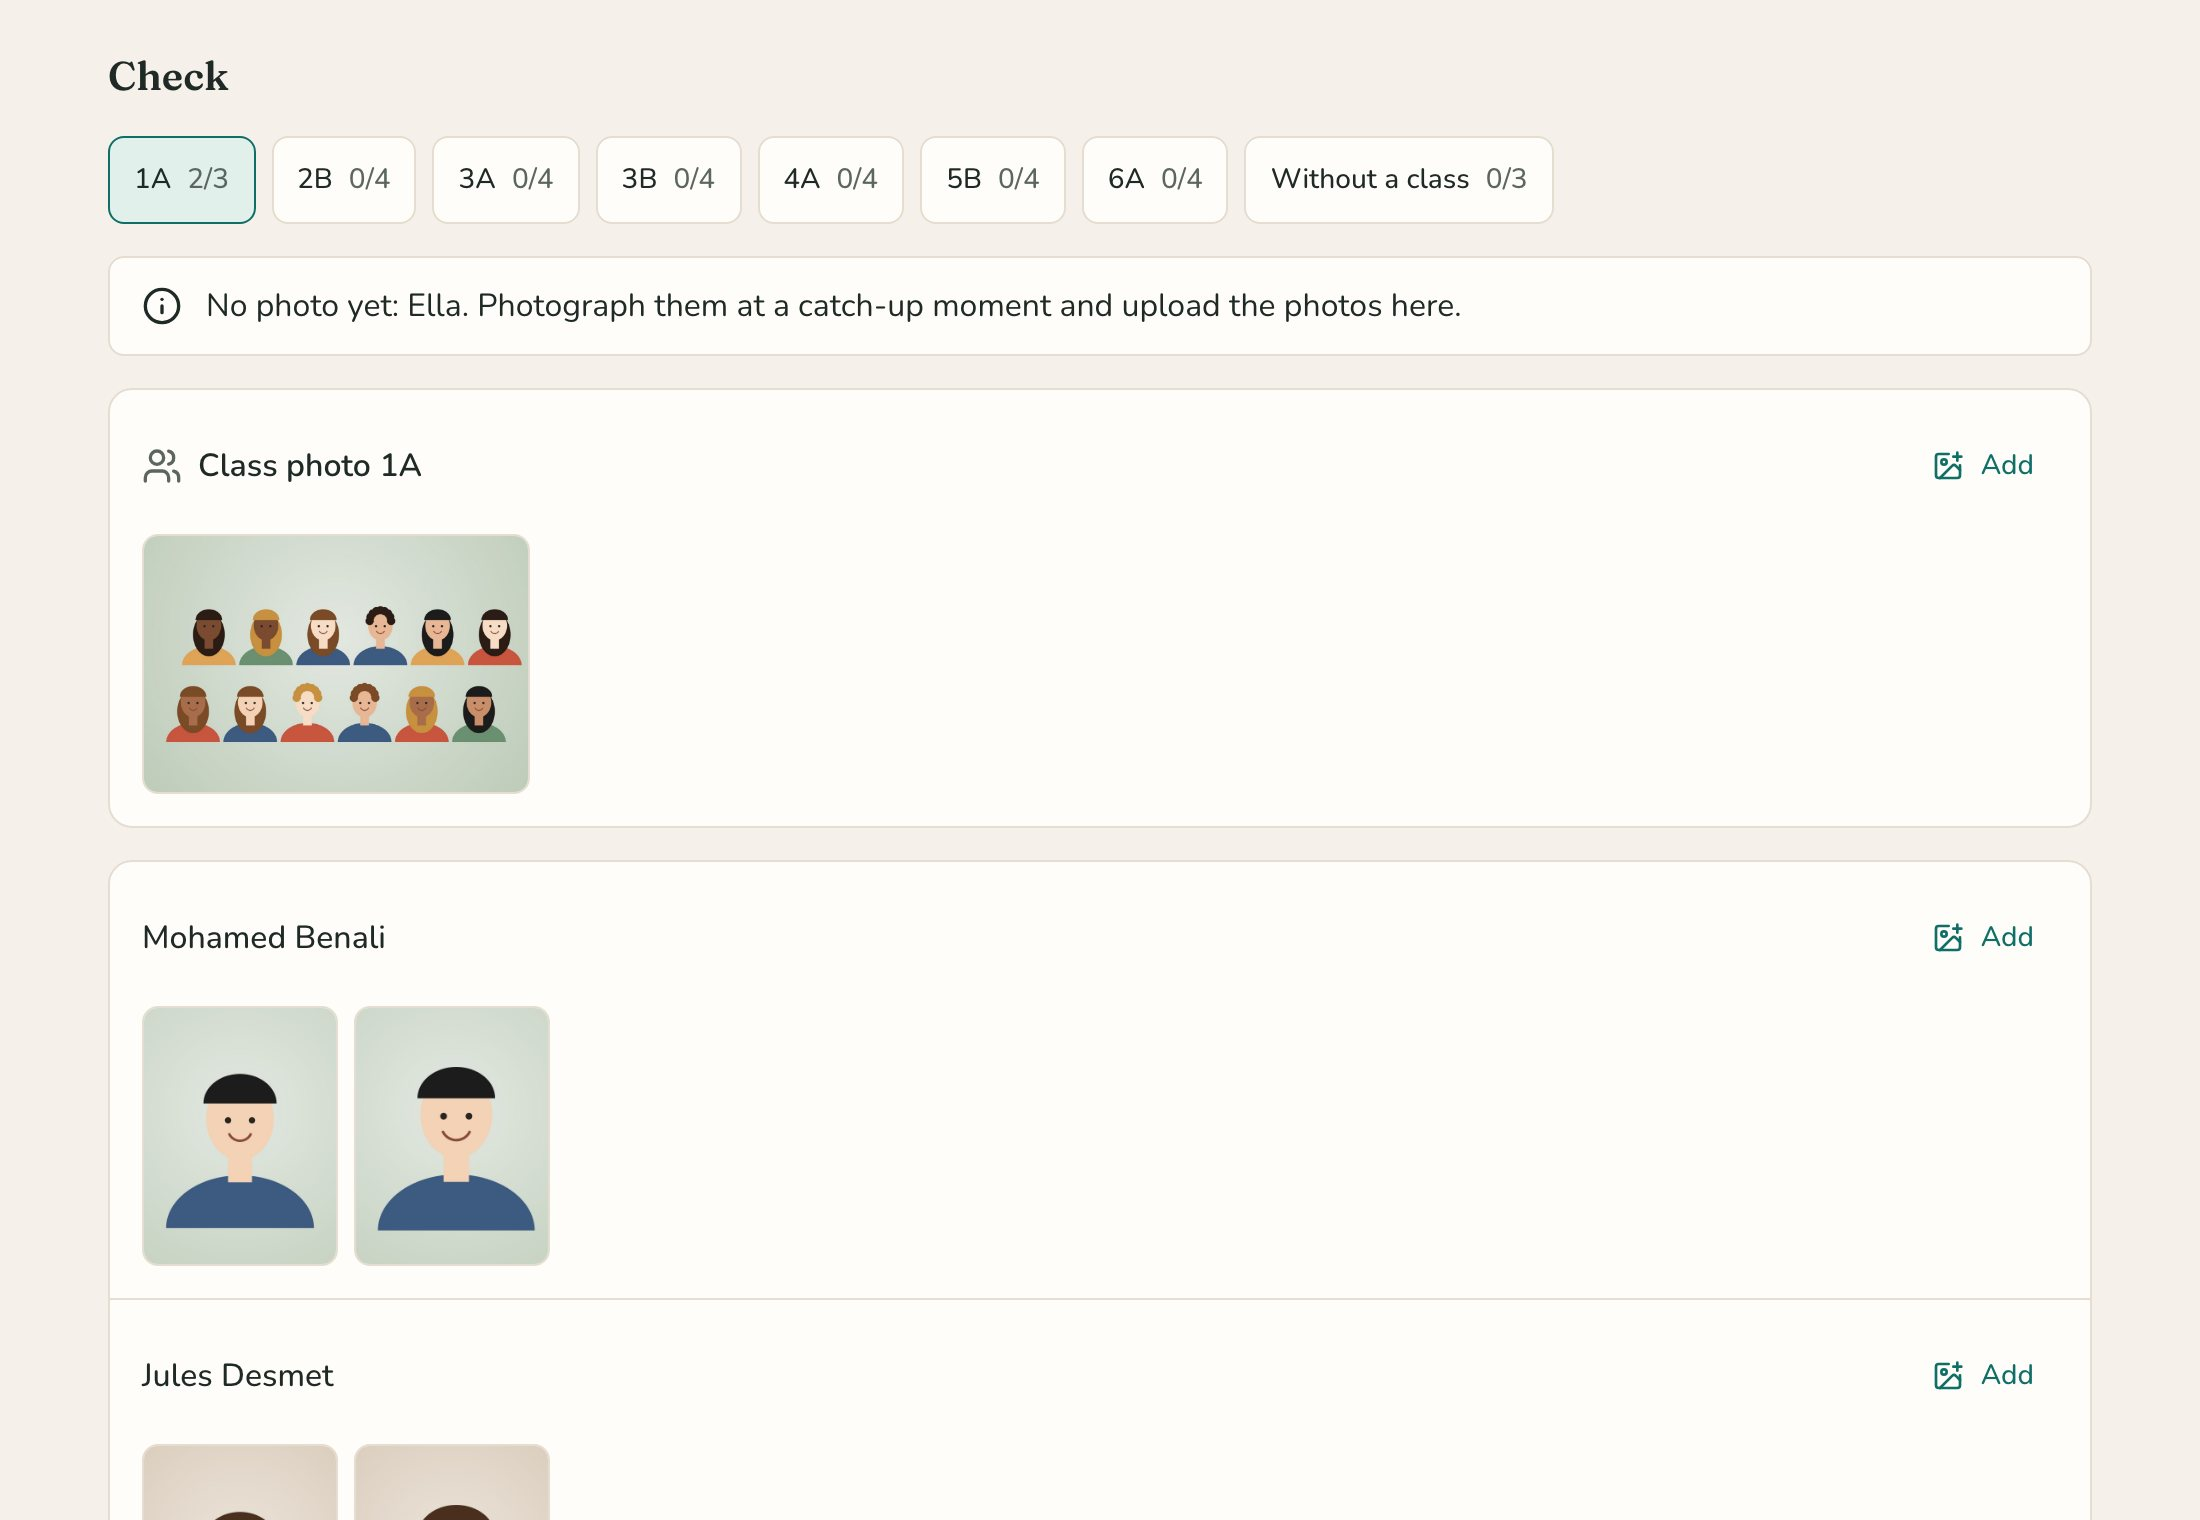
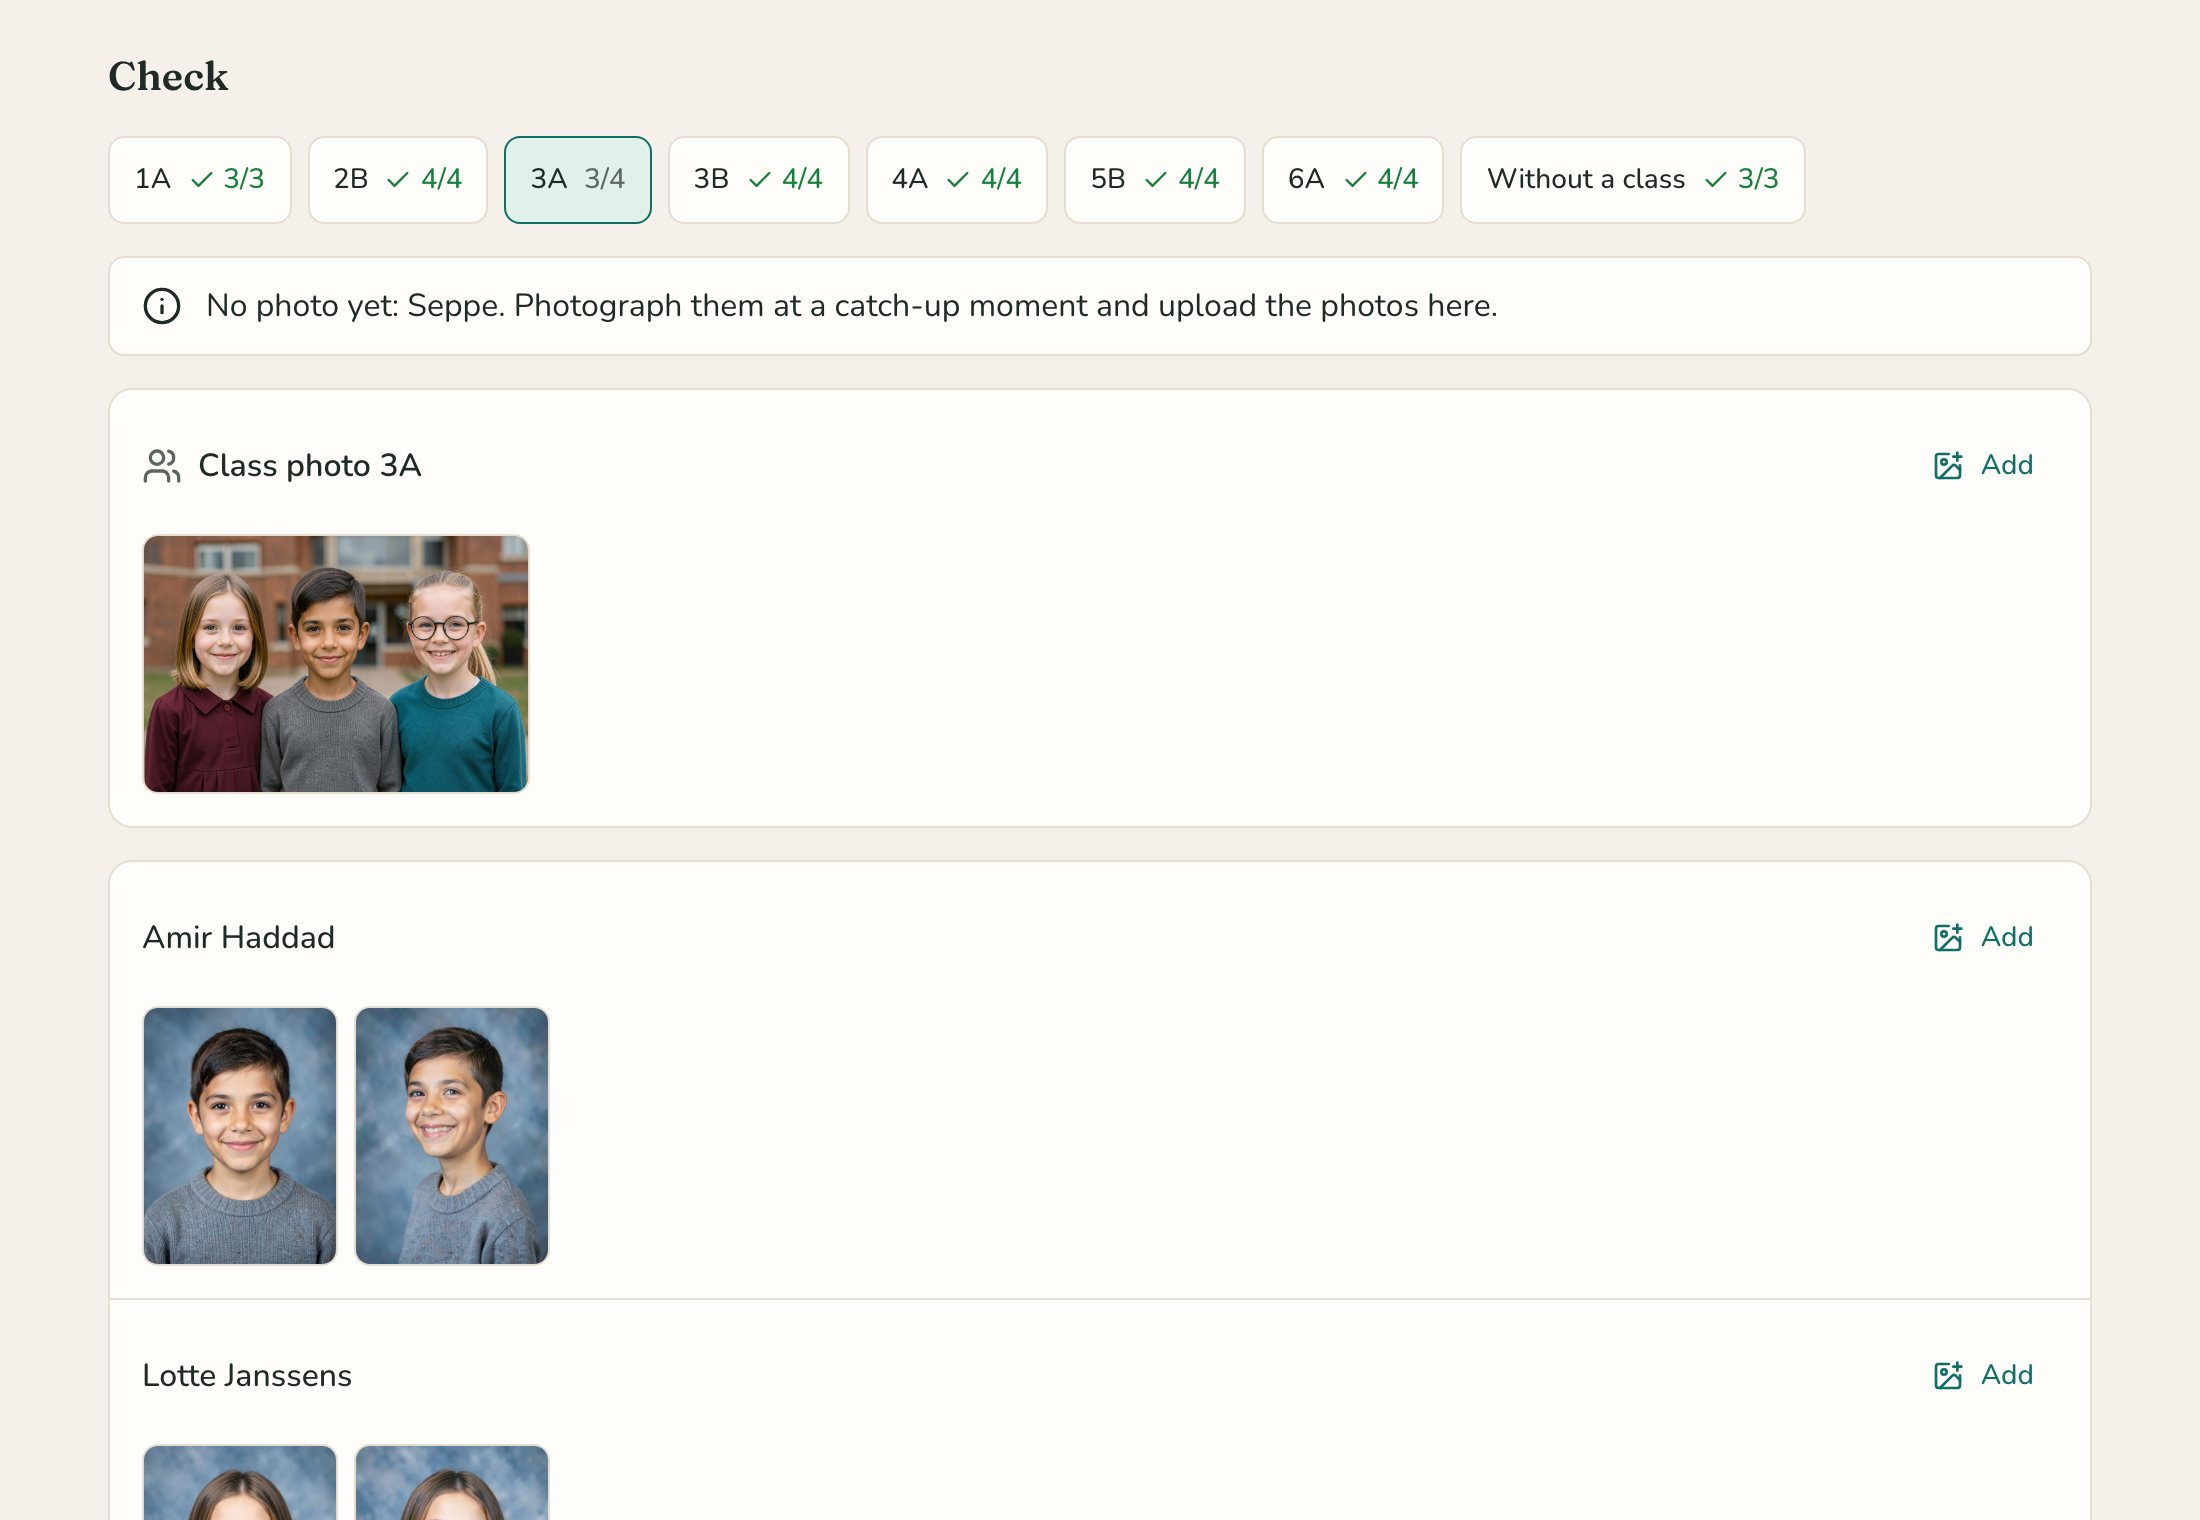
Site: realistic pictures in the Schoolfoto's screenshot (#22)
The screenshot script uses the made-up AI pictures in video/photos (kept locally) and falls
back to the drawings. It fills every class and shows the one with an absent pupil, so the
progress per class looks like a real photo day.

diff --git a/site/README.md b/site/README.md
@@ -23,8 +23,9 @@ python3 -m http.server 8090 -d site/dist  # http://localhost:8090 and /en/
 ```
 
 New screenshots after an app change (with `npm run dev:local` running; macOS, uses Quick Look
-for the PDFs; book covers need an internet connection). The school photos shot uploads drawn
-portraits (never real children) to the demo's photo day, once; the English run reuses them:
+for the PDFs; book covers need an internet connection). The school photos shot uploads
+made-up portraits (never real children) to the demo's photo day: the AI pictures in `video/photos/`
+(kept locally, see `video/README.md`), or drawings without them:
 
 ```bash
 npm run demo && node site/scripts/screenshots.mjs
